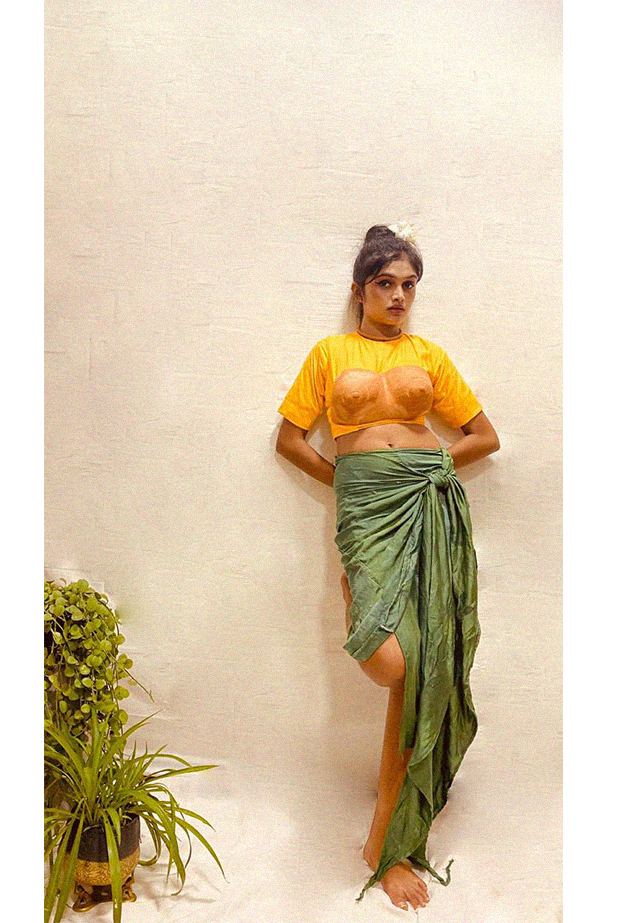
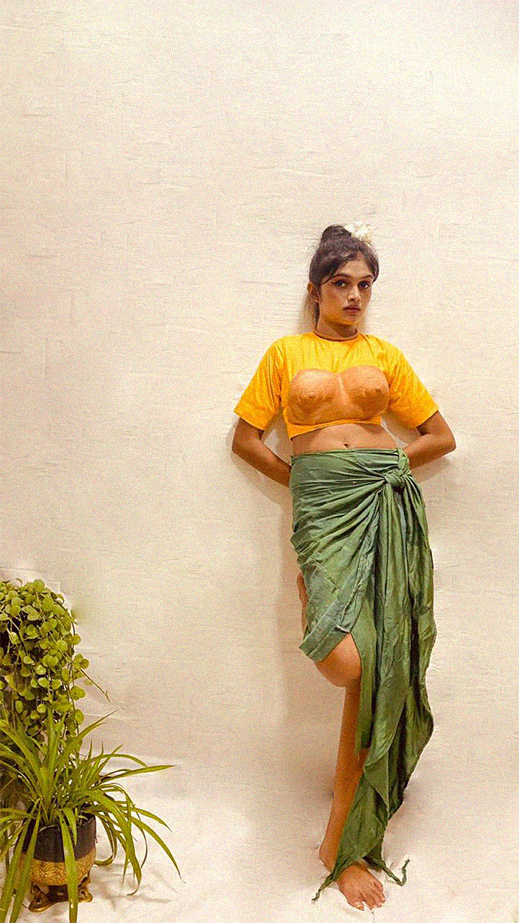
fix: image sizes in page wheres-perfection

diff --git a/wheres-perfection.html b/wheres-perfection.html
@@ -194,7 +194,7 @@
           <!-- <figure class="gr-mb-md-10">
             <img src="./image/jpg/details/details-8.jpg" alt="" class="w-100">
           </figure> -->
-          <figure class="gr-mb-md-10">
+          <figure class="gr-mb-md-10 col-sm-6 mx-auto">
             <img src="./image/portfolio/wheres-perfection/09.png" alt="" class="w-100">
           </figure>
           <div class="row justify-content-center gr-pt-md-9">
@@ -317,13 +317,13 @@
                 <h2 class="gr-text-3 font-weight-bold gr-px-xl-7">I am taking new projects. Waiting to hearing about new projects, so if you'd like to chat please get in touch.</h2>
                 <ul class="llinks-inline d-flex flex-wrap justify-content-center gr-pt-md-11 gr-pt-10 pl-0">
                   <li class="text-uppercase border-right-sm font-weight-bold gr-text-12 letter-spacing-1_63">
-                    <a href="" class="gr-px-7  d-inline-block btn-hover-translate">
-                      <span>contact@folio.design</span>
+                    <a href="mailto:amyuwii@gmail.com" class="gr-px-7  d-inline-block btn-hover-translate">
+                      <span>amyuwii@gmail.com</span>
                     </a>
                   </li>
                   <li class="text-uppercase font-weight-bold gr-text-12 letter-spacing-1_63">
-                    <a href="" class="gr-px-7 d-inline-block btn-hover-translate">
-                      <span>linkedin.com/folio</span>
+                    <a href="https://www.linkedin.com/in/yuwani-oshadhi-13b232236/" class="gr-px-7 d-inline-block btn-hover-translate">
+                      <span>linkedin.com</span>
                     </a>
                   </li>
                 </ul>
